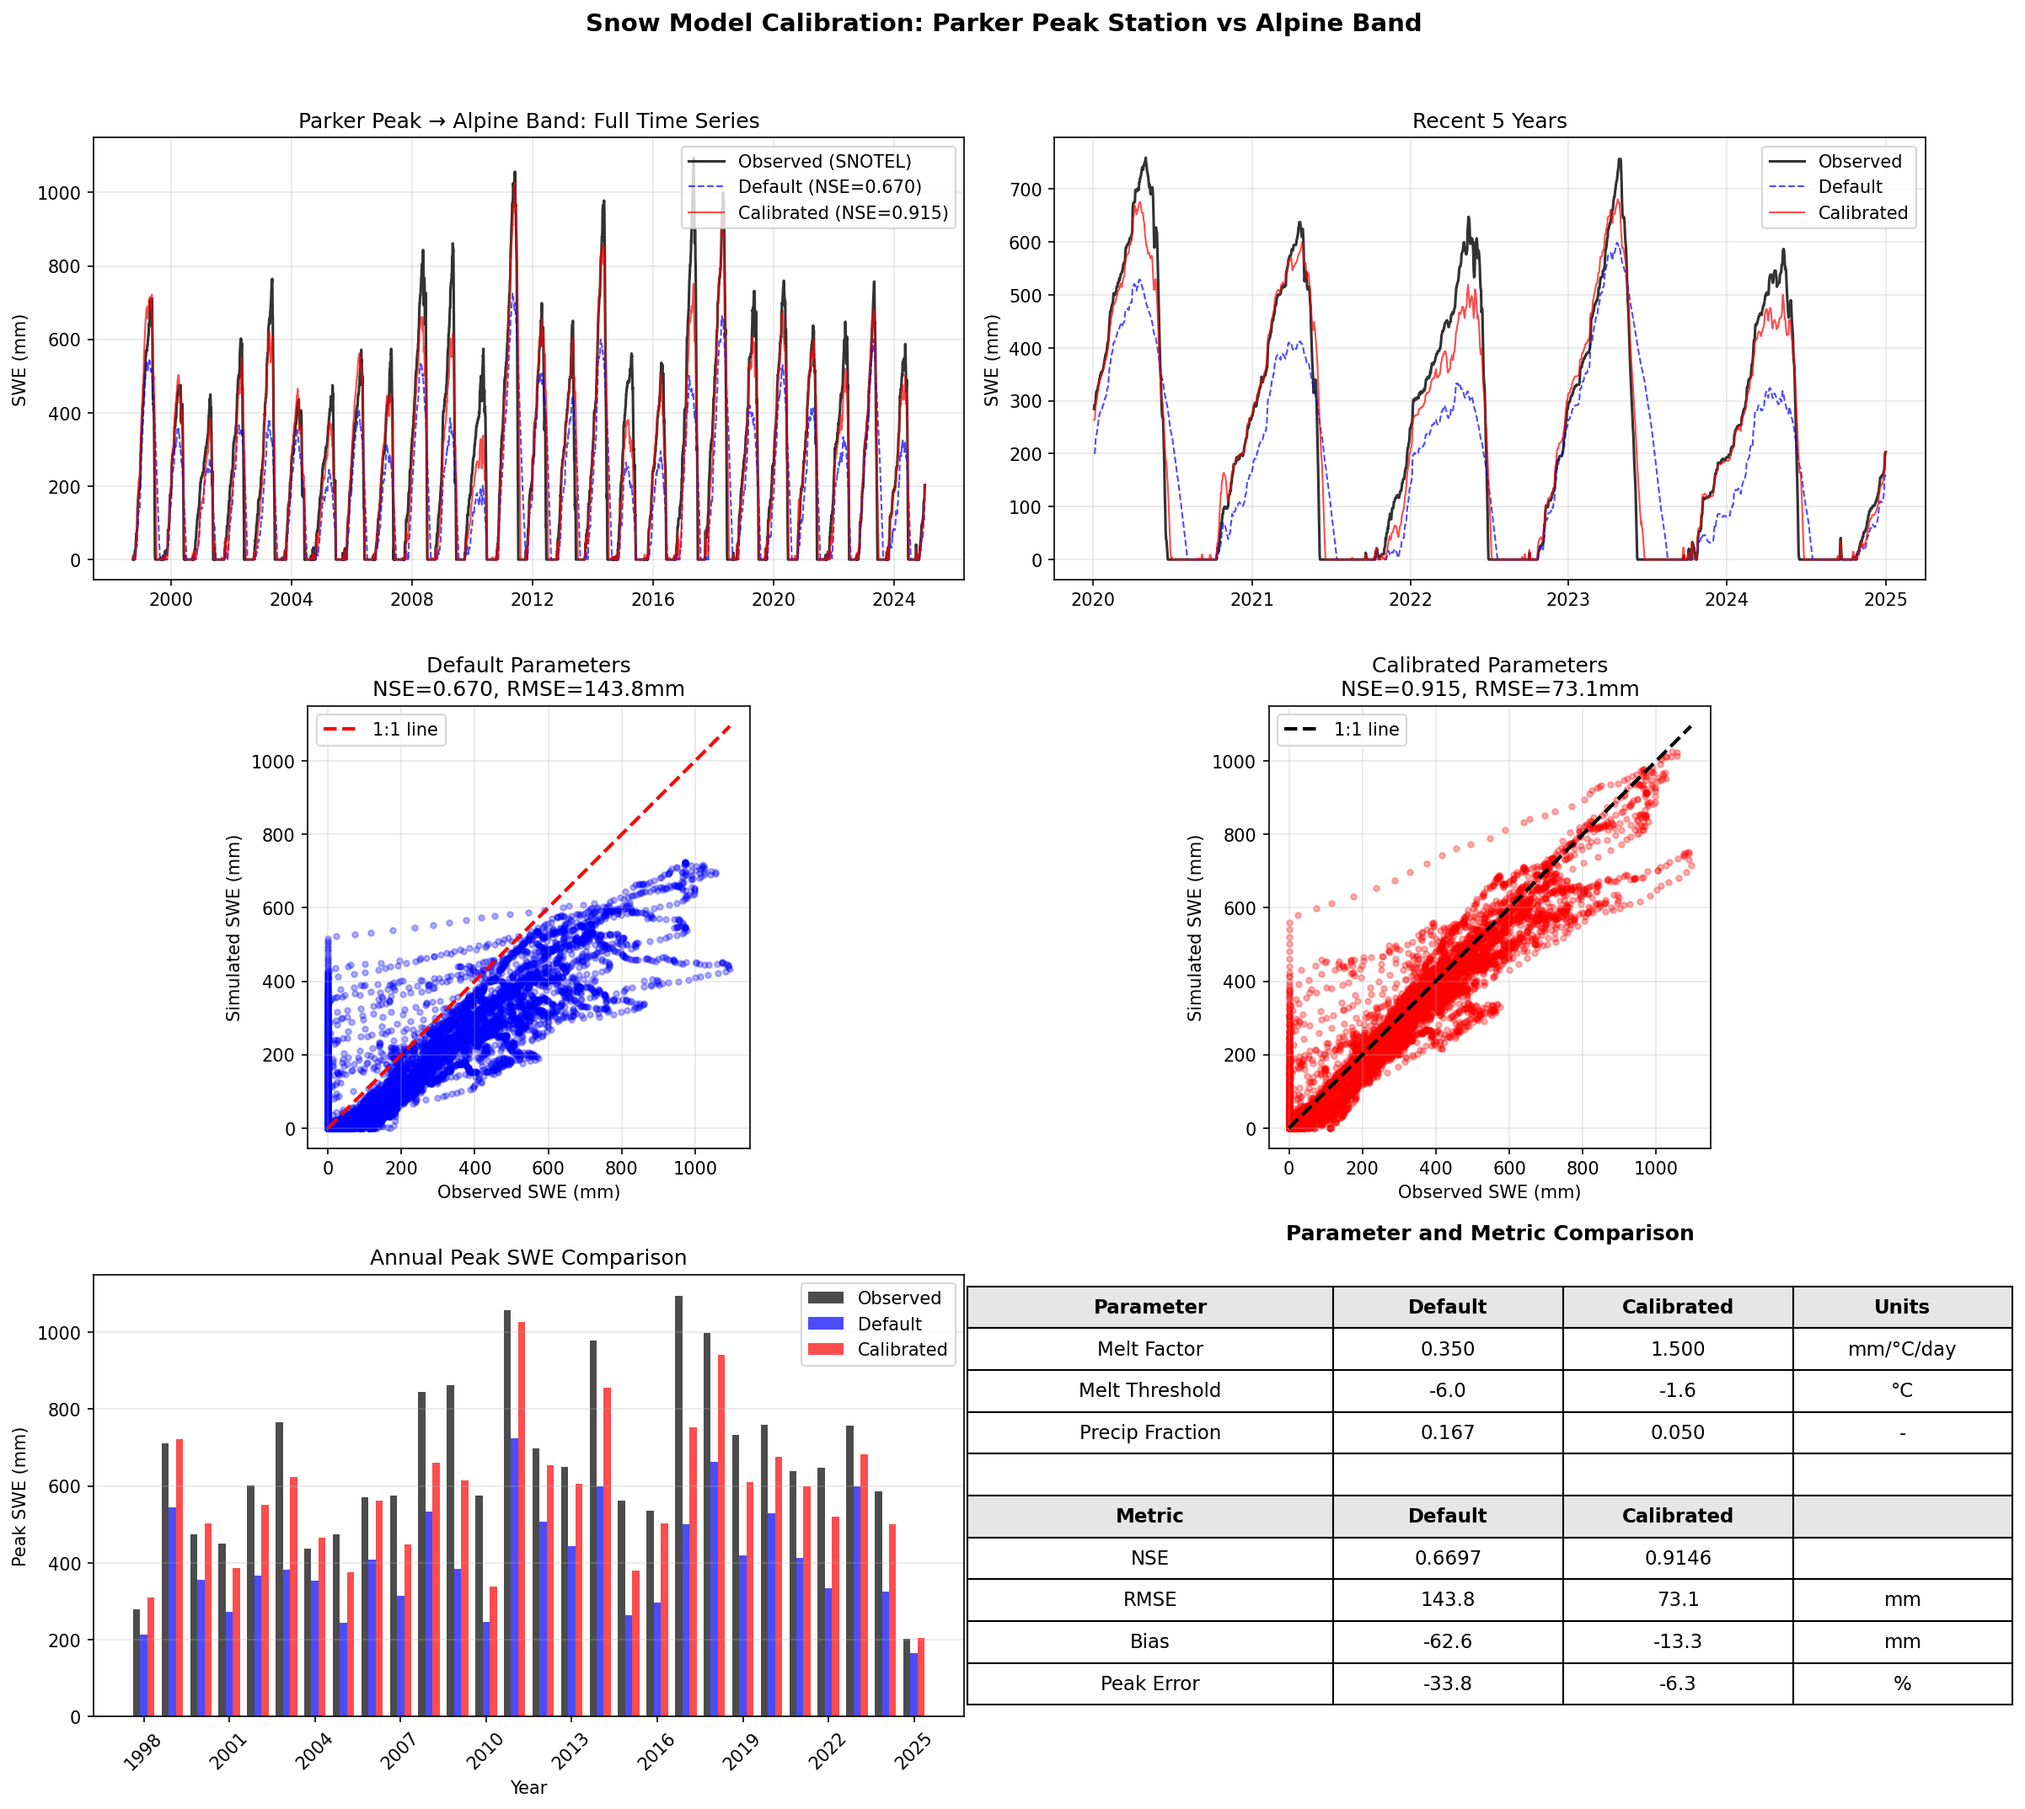
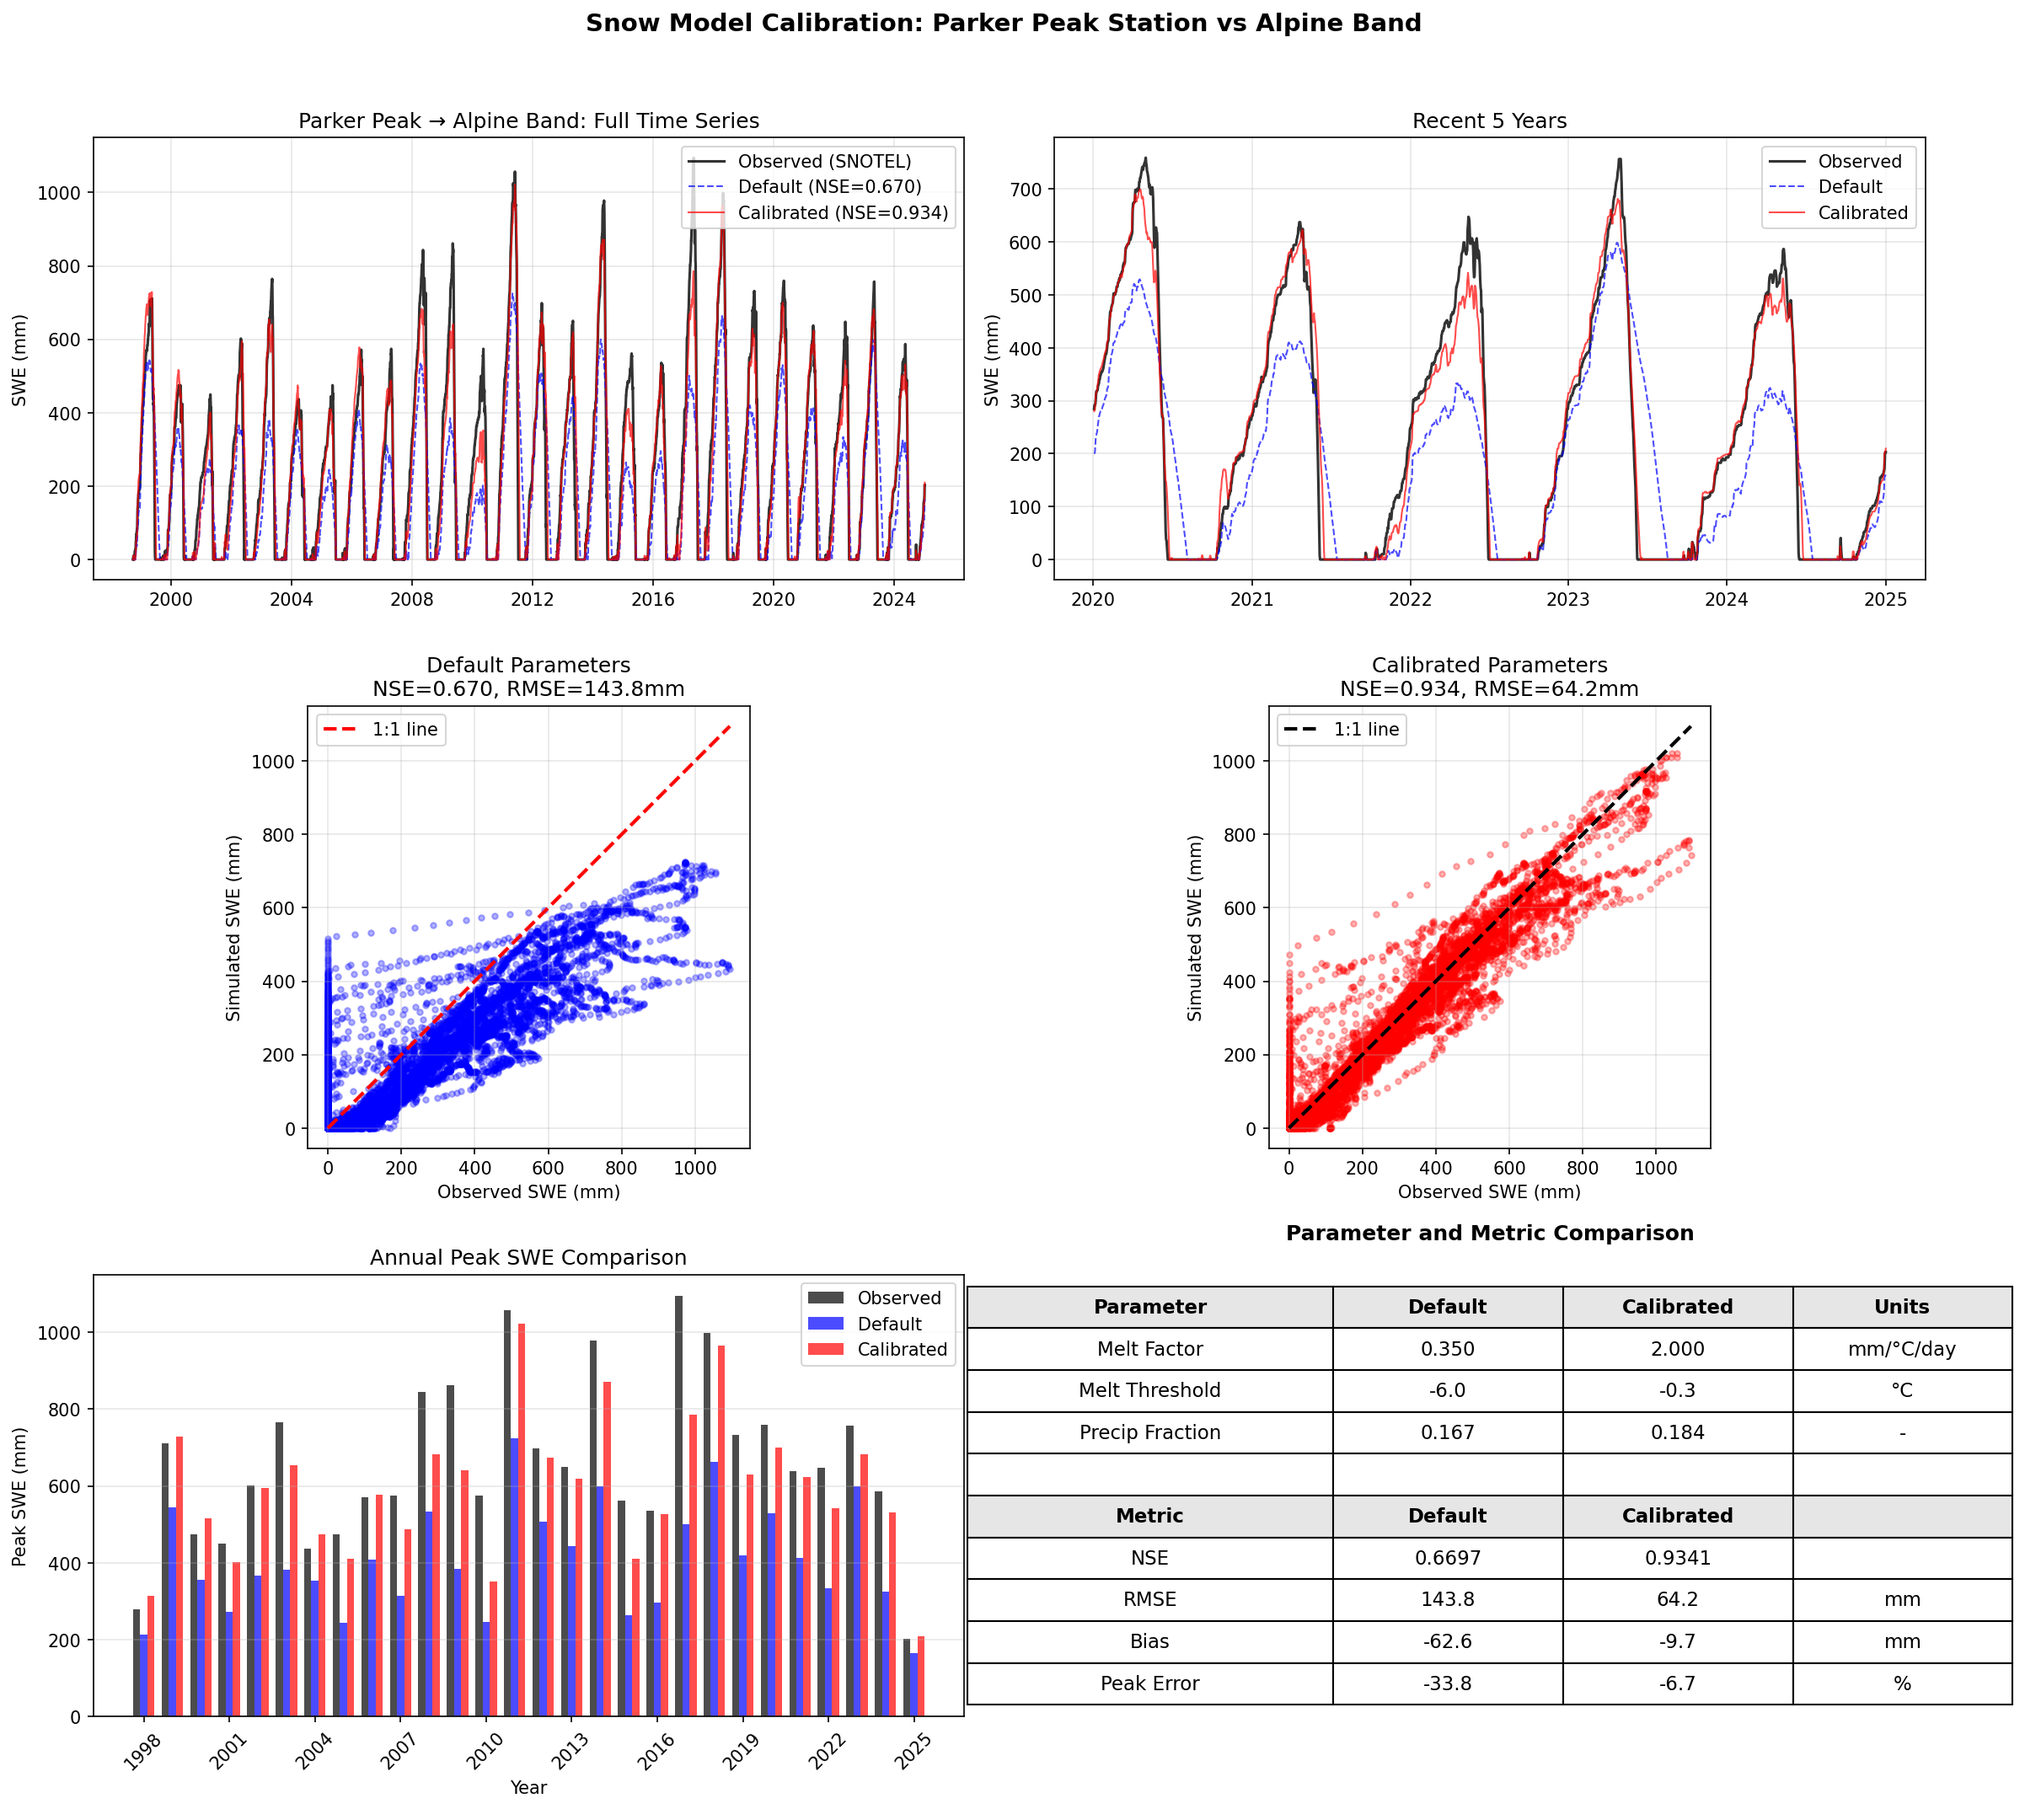
increase maximum melt_factor bounds

diff --git a/src/calibrate_snow_model.py b/src/calibrate_snow_model.py
@@ -53,7 +53,7 @@ class SnowModelParams:
     def get_bounds() -> list:
         """Parameter bounds for optimization"""
         return [
-            (0.1, 1.5),      # melt_factor: typical range 1-6 mm/°C/day
+            (0.1, 6),      # melt_factor: typical range 1-6 mm/°C/day
             (-10.0, 2.0),    # melt_thresh_temp: -10 to +2°C
             (0.05, 0.3)      # precip_fraction: 0.05-0.3
         ]
